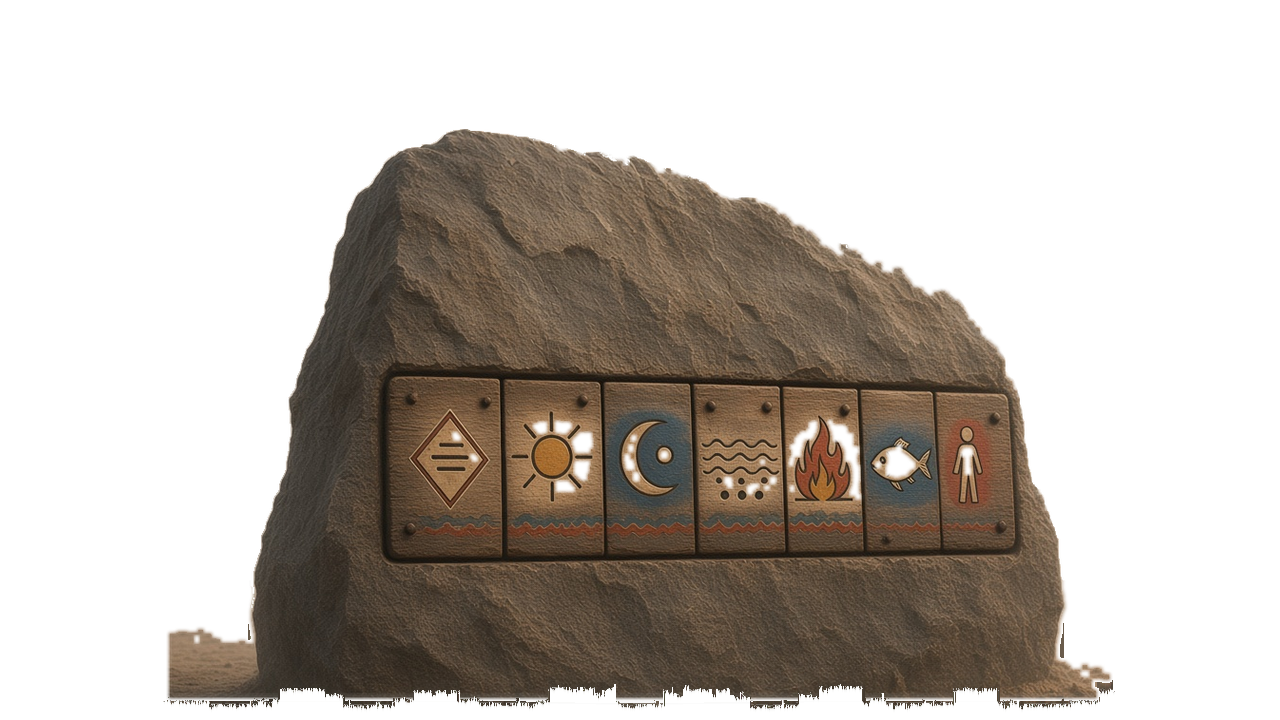
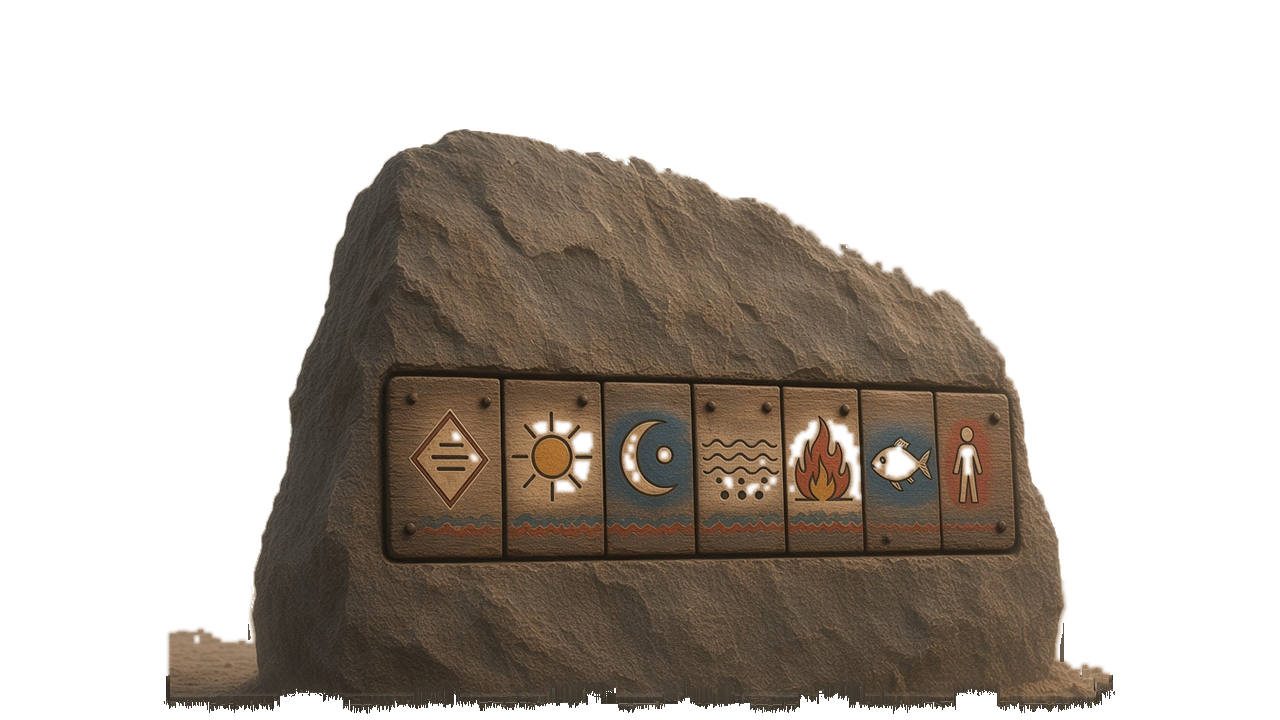
壁画脚压沙 + 挂 1.3-pr58-mural（#58）
* 壁画脚再压到沙上，底边垫一层岸上青灰。

低透明横带不再透出崖纹。东石、瓢、门廊和行走带不动。美工包未到，壁画贴图未换。

* 挂上 1.3-pr58-mural 的壁画贴图。

底边不再是低透明横带。脚仍在 y0.56，底雾垫保留。东石和瓢字节不动。

---------

Changed region(s): [[0.125, 0.9167, 0.875, 1.0]]

diff --git a/src/ui/hotspotAcceptance.test.tsx b/src/ui/hotspotAcceptance.test.tsx
@@ -32,7 +32,7 @@ describe('hotspot acceptance', () => {
       ['shore-driftwood', 'art.shore.prop.driftwood', 0.33, 0.72, 0.05],
       ['shore-stone', 'art.shore.prop.break-shard', 0.18, 0.7, 0.05],
       ['island-gourd', 'art.shore.prop.gourd', 0.58, 0.66, 0.11],
-      ['island-mural', 'art.shore.prop.mural-wall', 0.3, 0.5, 0.09],
+      ['island-mural', 'art.shore.prop.mural-wall', 0.3, 0.56, 0.09],
       ['shore-depart', 'art.shore.prop.east-gap', 0.74, 0.68, 0.05],
     ] as const;
     expect(SPOTS['dba.scene.shore']).toHaveLength(5);
@@ -104,6 +104,9 @@ describe('hotspot acceptance', () => {
     const gap = screen.getByTestId('prop-art.shore.prop.east-gap');
     expect(gap.getAttribute('data-slot')).toBe('props');
     expect(gap.getAttribute('data-spot')).toBe('shore-depart');
+    expect(gap.querySelector('[data-testid="mural-bite"]')).toBeNull();
+    const mural = screen.getByTestId('prop-art.shore.prop.mural-wall');
+    expect(mural.querySelector('[data-testid="mural-bite"]')).toBeTruthy();
     expect(gap.getAttribute('data-anchor')).toBe('foot');
     expect(gap.style.transform).toContain('translate(-50%, -100%)');
     expect(prop('art.camp.prop.fire', 'dba.scene.camp')?.y).toBeGreaterThanOrEqual(0.8);

diff --git a/src/styles.css b/src/styles.css
@@ -1664,6 +1664,25 @@ h1 {
   object-fit: contain;
   object-position: center bottom;
 }
+/* Opaque shore-fog pad behind the mural's low-alpha hem, so the cliff does not show through. */
+.scene-slot[data-kind="mural-wall"] .mural-bite {
+  position: absolute;
+  left: 8%;
+  right: 8%;
+  bottom: 0;
+  height: 9%;
+  z-index: 0;
+  pointer-events: none;
+  background: linear-gradient(
+    to top,
+    color-mix(in srgb, var(--ambient, #b8ced4) 46%, #fff) 0 58%,
+    transparent 100%
+  );
+}
+.scene-slot[data-kind="mural-wall"] .slot-asset {
+  position: relative;
+  z-index: 1;
+}
 .scene-slot.placed[data-slot="props"] .prop-contact {
   z-index: -1;
   height: auto;

diff --git a/src/ui/Plate.tsx b/src/ui/Plate.tsx
@@ -258,6 +258,7 @@ function SlotPiece({
       style={slotStyle(slot, cam)}
     >
       <div className="prop-body">
+        {slot.kind === 'mural-wall' ? <span className="mural-bite" data-testid="mural-bite" /> : null}
         {src ? <img className="slot-asset" src={src} alt="" draggable={false} /> : null}
         {!src && slot.slot === 'ground' ? <GroundPlane scene={scene} kind={slot.kind} /> : null}
         {!src && slot.slot !== 'ground' && slot.kind !== 'empty' ? (

diff --git a/src/core/walk.test.ts b/src/core/walk.test.ts
@@ -112,9 +112,9 @@ describe('walk', () => {
   });
 
   it('only counts a hotspot when the traveler is inside its radius', () => {
-    const spot = { x: 0.3, y: 0.5 };
+    const spot = { x: 0.3, y: 0.56 };
     expect(inRadius({ x: 0.42, y: 0.62 }, spot, 0.09)).toBe(false);
-    expect(inRadius({ x: 0.32, y: 0.52 }, spot, 0.09)).toBe(true);
+    expect(inRadius({ x: 0.32, y: 0.58 }, spot, 0.09)).toBe(true);
   });
 });
 

diff --git a/src/core/stage.ts b/src/core/stage.ts
@@ -62,7 +62,7 @@ export const GATES: readonly Gate[] = [
 
 export const SPOTS: Record<IslandScene, readonly Spot[]> = {
   'dba.scene.shore': [
-    { id: 'island-mural', x: 0.3, y: 0.5, r: 0.09 },
+    { id: 'island-mural', x: 0.3, y: 0.56, r: 0.09 },
     { id: 'shore-stone', x: 0.18, y: 0.7, r: 0.05 },
     { id: 'shore-driftwood', x: 0.33, y: 0.72, r: 0.05 },
     { id: 'island-gourd', x: 0.58, y: 0.66, r: 0.11 },
